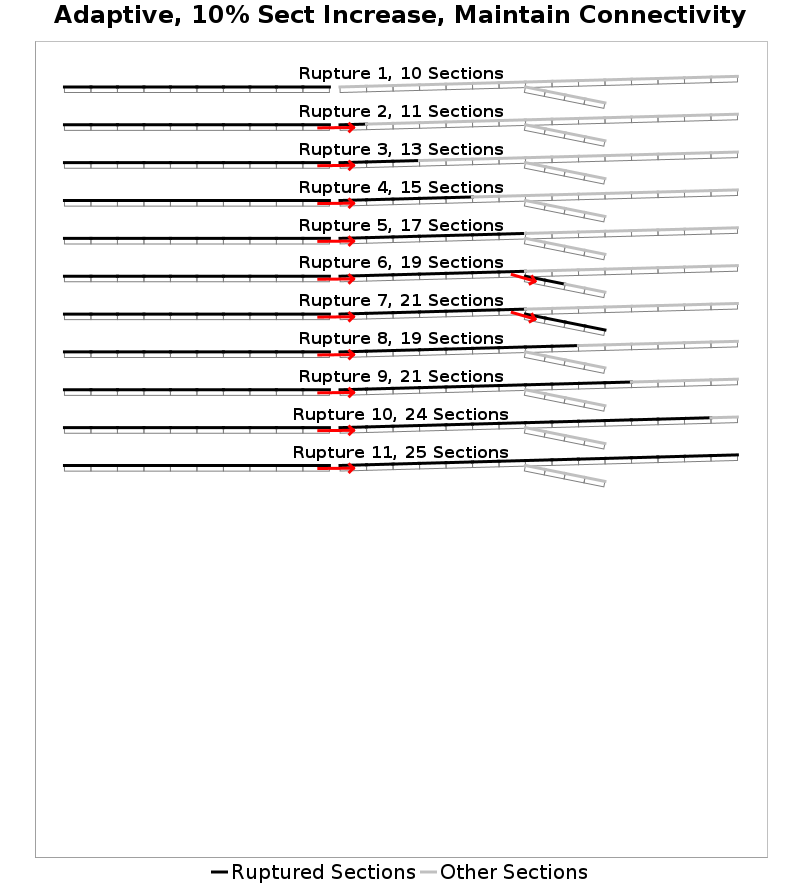
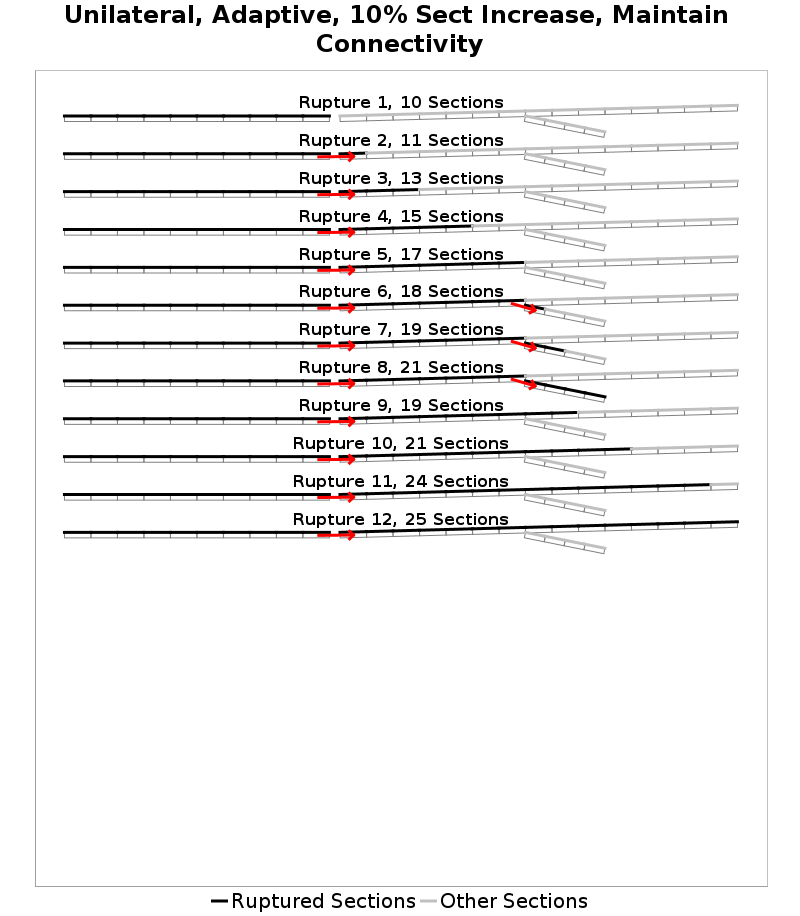
updated docs for bilateral permutations

diff --git a/src/org/opensha/sha/earthquake/faultSysSolution/ruptures/strategies/doc/README.md b/src/org/opensha/sha/earthquake/faultSysSolution/ruptures/strategies/doc/README.md
@@ -1,6 +1,6 @@
 # Connection and Permutation Strategies
 
-Along with plausibility filters, connection and permuation strategies dictate how ruptures are built, and various choices exist for each.
+Along with plausibility filters, connection and permutation strategies dictate how ruptures are built, and various choices exist for each.
 
 ## Connection Strategies
 
@@ -10,7 +10,7 @@ Connection strategies dictate where each pair of fault sections are allowed to c
 
 ### Minimum Distance Connection Strategy
 
-In UCERF3, connections always occurred at the subsection pairs with the shortest distance. Those distance calculations are a bit arbitrary for parallel or intersecting faults, as the subsections chosen are random (in the perfectly parallel case) or sensitive the specefics or how fault surfaces are discretized for distance calculations.
+In UCERF3, connections always occurred at the subsection pairs with the shortest distance. Those distance calculations are a bit arbitrary for parallel or intersecting faults, as the subsections chosen are random (in the perfectly parallel case) or sensitive the specifics or how fault surfaces are discretized for distance calculations.
 
 Additionally, the minimum distance subsection pair may fail the plausibility filters and exclude a fault-to-fault connection, where another subsection pair on those same faults could have passed.
 
@@ -18,17 +18,17 @@ Additionally, the minimum distance subsection pair may fail the plausibility fil
 
 To address these deficiencies, we introduce a new connection strategy that takes plausibility filters into account, and is optimized to connect fault ends if possible.
 
-First, all avaiable connection points up to a maximum distance are evaluated, keeping track of how many paths through that junction pass and fail the plausibility filters. For example, two faults connected end-to-end would only have one possible path through the junction. Two faults coming together as a T have two possible paths, and as an X four possible paths. Only those connection points that pass are retained, and the junction points that have the fewest failing paths are kept, and ties are broken by selectin the junction with the fewest possible paths. This prioritizes the end-to-end case if possible (one allowed path, no failed paths), then a T-junction, and finally an X-junction.
+First, all available connection points up to a maximum distance are evaluated, keeping track of how many paths through that junction pass and fail the plausibility filters. For example, two faults connected end-to-end would only have one possible path through the junction. Two faults coming together as a T have two possible paths, and as an X four possible paths. Only those connection points that pass are retained, and the junction points that have the fewest failing paths are kept, and ties are broken by selecting the junction with the fewest possible paths. This prioritizes the end-to-end case if possible (one allowed path, no failed paths), then a T-junction, and finally an X-junction.
 
-If further tiest exist, they are broken by choosing the junction with the minimum distance. A special case to this rule is applied if a scalar value plausibility filter is included (e.g., a Coulomb filter) and there are multiple junctions with nearly-identical distances (within 2km). In that case, the one with the better scalar value is chosen instead. The result of this algorithm is shown in the middle panel of the example.
+If further ties exist, they are broken by choosing the junction with the minimum distance. A special case to this rule is applied if a scalar value plausibility filter is included (e.g., a Coulomb filter) and there are multiple junctions with nearly-identical distances (within 2km). In that case, the one with the better scalar value is chosen instead. The result of this algorithm is shown in the middle panel of the example.
 
-Finally, one can also allow multiple connections up to a maximum distance if multiple junctions are otherwise idential (as determined by their number of failed and total paths) and the other jumps do not involve the same subsections as the primary jump. This option was included for faults that are largely parallel and have multiple viable connection points, such as in the bottom panel of the example plot.
+Finally, one can also allow multiple connections up to a maximum distance if multiple junctions are otherwise identical (as determined by their number of failed and total paths) and the other jumps do not involve the same subsections as the primary jump. This option was included for faults that are largely parallel and have multiple viable connection points, such as in the bottom panel of the example plot.
 
 ## Permutation Strategies
 
-Permutation strategies dictate how a fault subsection cluster is subdived into ruptures. In practice, the rupture builder starts by creating every permuation of every possible starting cluster. It then builds outward taking every available jump, and after each jump tests adding every purmutation of the destination cluster (that starts with the jumped-to subsection) against the plausibility filters.
+Permutation strategies dictate how a fault subsection cluster is subdivided into ruptures. In practice, the rupture builder starts by creating every permutation of every possible starting cluster. It then builds outward taking every available jump, and after each jump tests adding every purmutation of the destination cluster (that starts with the jumped-to subsection) against the plausibility filters.
 
-In UCERF3, we used an exhaustive permuation strategy that tried every contiguous permutation of a cluster. This is the most complete option, but leads to rupture sets dominated by many nearly-identical long ruptures. That is shown in the left column below.
+In UCERF3, we used an exhaustive permutation strategy that tried every contiguous permutation of a cluster. This is the most complete option, but leads to rupture sets dominated by many nearly-identical long ruptures. That is shown in the left column below.
 
 We now have options for adaptive ("thinned") permutation strategies that take the rupture thus far into account when a jump to a new cluster is evaluated. This strategy requires that each permutation increases the subsection count of the current rupture by at least X%. For example, if that threshold is set to 10% then all permutations will be included up to the first jump and through the first 11 subsections. Once the rupture has 11 subsections, the next permutation must add 2 sections (from rupture 2 to 3 in the middle column example), and once the rupture is 21 sections long the next permutation must add 3 sections (from rupture 9 to 10 in the example). Additionally, viable connection points (including fault ends) will never be skipped in order to maintain connectivity.
 
@@ -37,3 +37,16 @@ Finally, an extreme permutation strategy that only includes permutations that st
 | ![Exhaustive](perm_strat_exhaustive.png) | ![Adaptive](perm_strat_adaptive.png) | ![Connection Points](perm_strat_conn_points.png) |
 |-----|-----|-----|
 
+### Bilateral Permutation Strategies
+
+In UCERF3, all ruptures were single strand ruptures, i.e., one can traverse a rupture from one end to the other without encountering a fork ("Y" or "T" ruptures). Alternatively, we can use permutations strategies that allow bilateral spread onto a receiving cluster after a jump (a "T" rupture). This adds many more possible permutations, especially if both ends of the rupture are fully permutated. We always require that the seondary end not be longer than the primary end.
+
+Here we compare a unilateral to fully bilateral permuation strategy for a "T" fault system"
+
+| ![Unilateral](perm_strat_bilateral_unilateral.png) | ![Bilateral](perm_strat_bilateral_all.png) |
+|-----|-----|
+
+We also support permutation strategy variants that allow bilateral spread with stricter permutations on the "secondary" end of the cluster.  Only the primary end is allowed to take any further jumps (jumps off of the secondary end would be a splay jump). Think of this as the rupture continuing down toward the primary end, but also spreading bilaterally a bit in the other direction. The algorithm will always try both possible directions as primary/secondary when encountering a "T" jump, so when we call one end "primary" and the other "secondary" that is just for a particular representation of a rupture. Those alternative strategies are demonstrated below. The one on the left requires taht the secondary end be exactly as long as the primary end (until it reaches the end of the fault section). The right one is the most strict, and requires that the secondary end rupture fully.
+
+| ![Equal Length](perm_strat_bilateral_equal_len.png) | ![Single Full](perm_strat_bilateral_single_full.png) |
+|-----|-----|
